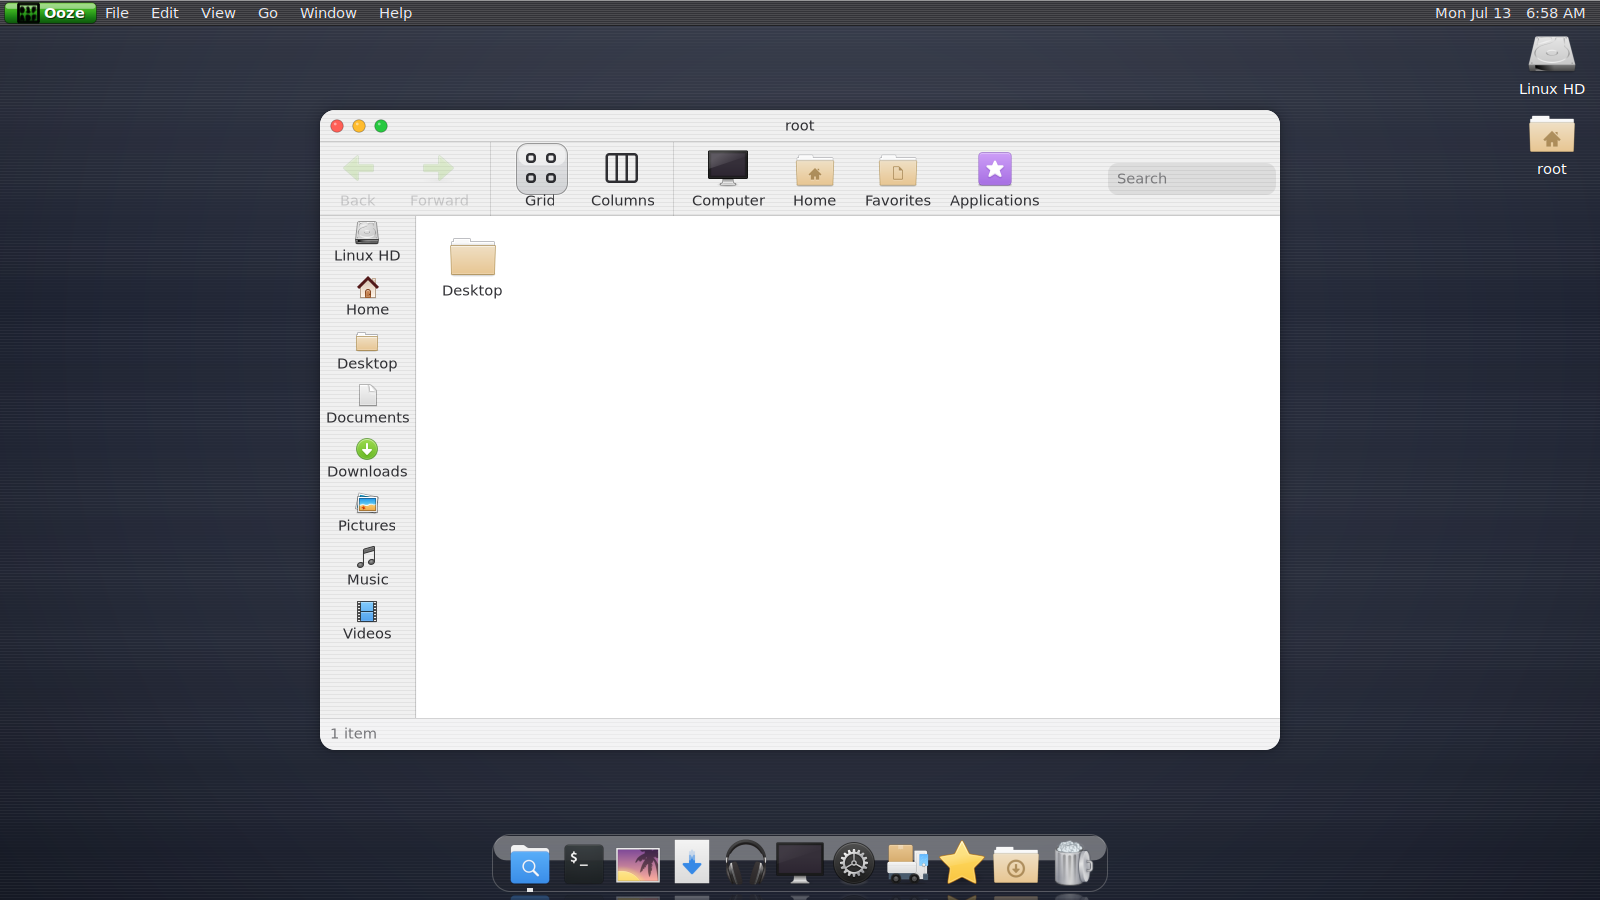
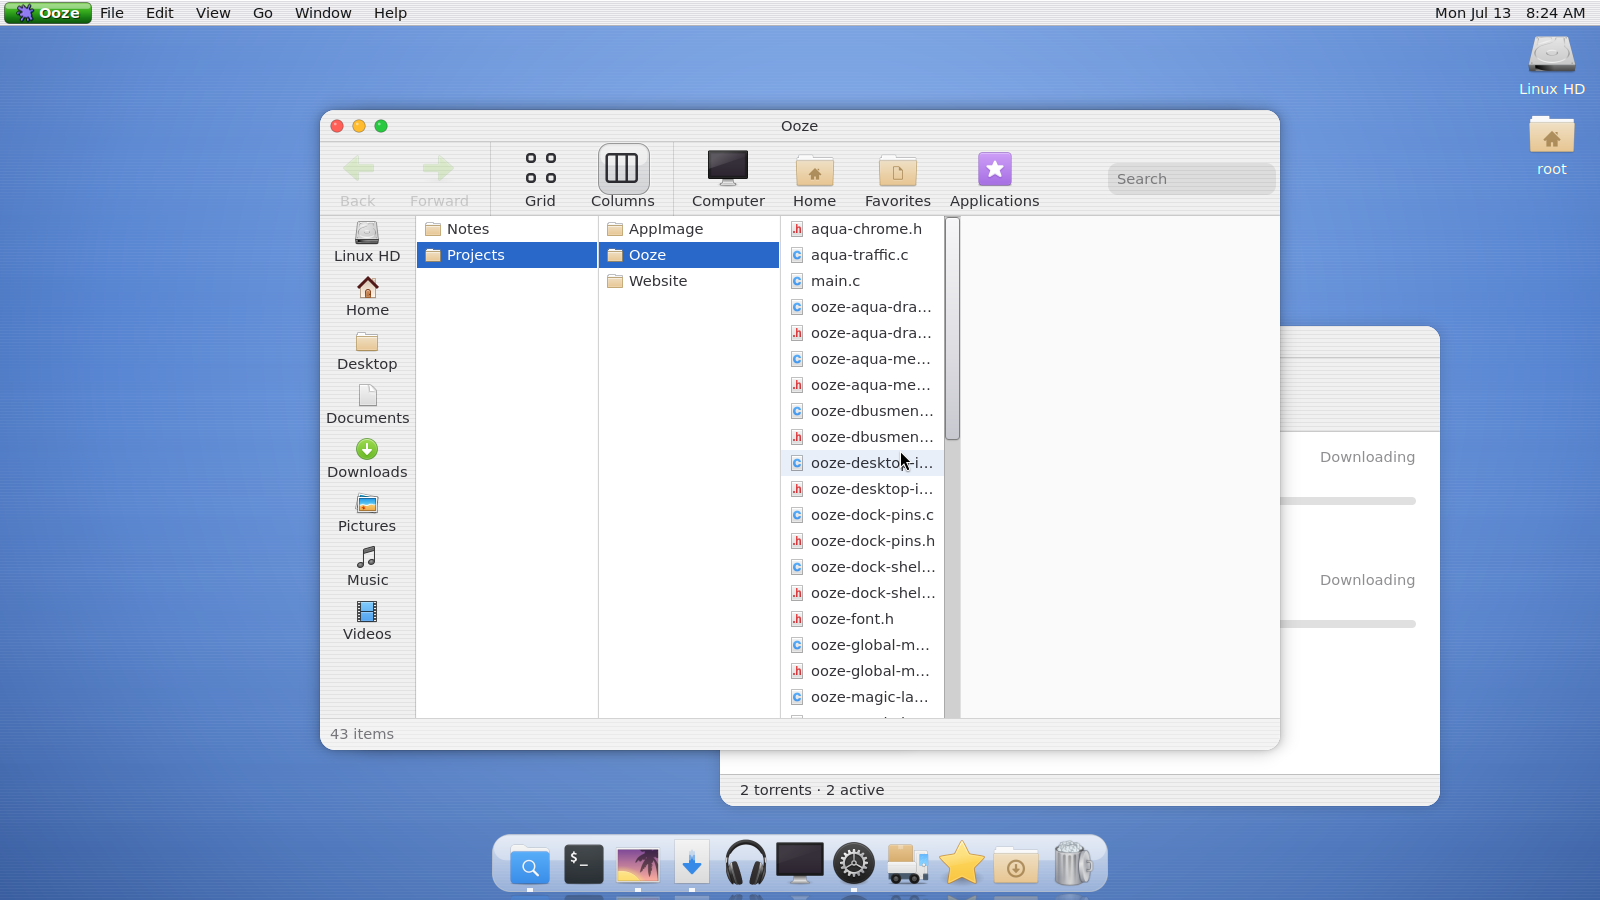
Refresh website desktop screenshots from current build
New captures from latest main: light/dark desktops with Ooze Eye,
System Settings (King), and Ooze Torrent mid-download, plus a
full-width Spot Miller-columns shot with visible scrollbars.

diff --git a/site/index.html b/site/index.html
@@ -345,6 +345,10 @@
         <div class="frame"><div class="bar"><i></i><i></i><i></i><b>Light</b></div><img src="assets/ooze-light.png" alt="Ooze desktop in light mode"></div>
         <figcaption>Light mode desktop</figcaption>
       </figure>
+      <figure style="grid-column: 1 / -1;">
+        <div class="frame"><div class="bar"><i></i><i></i><i></i><b>Spot — Columns</b></div><img src="assets/ooze-spot.png" alt="Spot file manager in Miller columns view with scrollbars"></div>
+        <figcaption>Spot's Miller columns — drill through folders with scrollable panes</figcaption>
+      </figure>
     </div>
   </section>
 